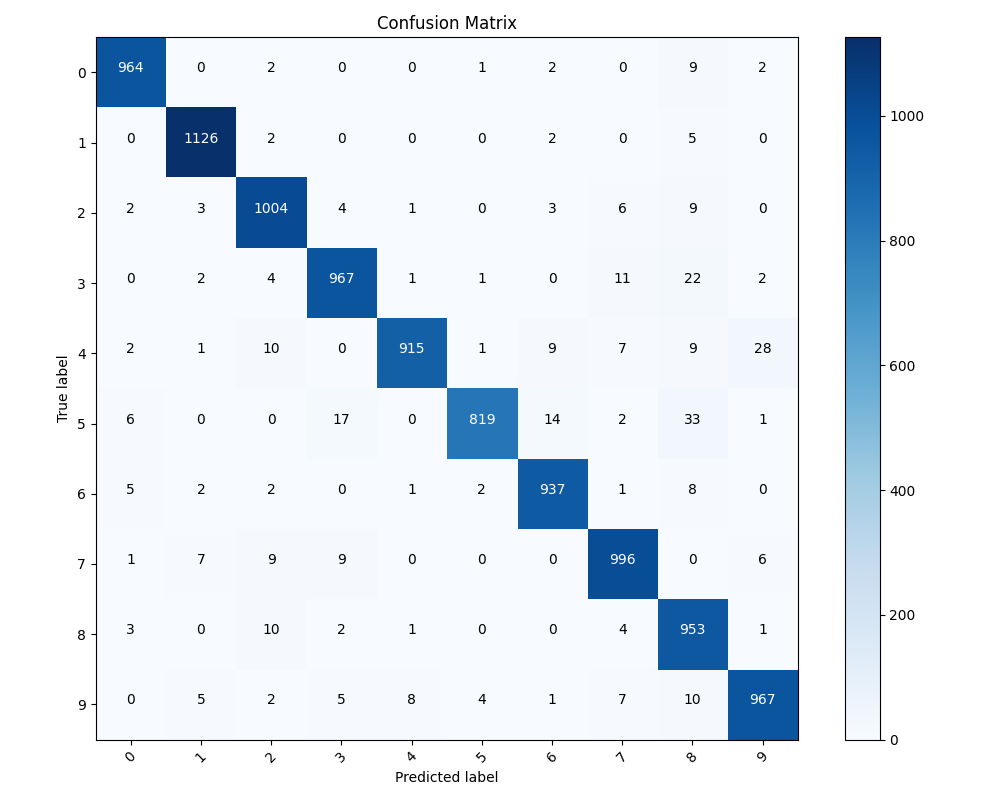
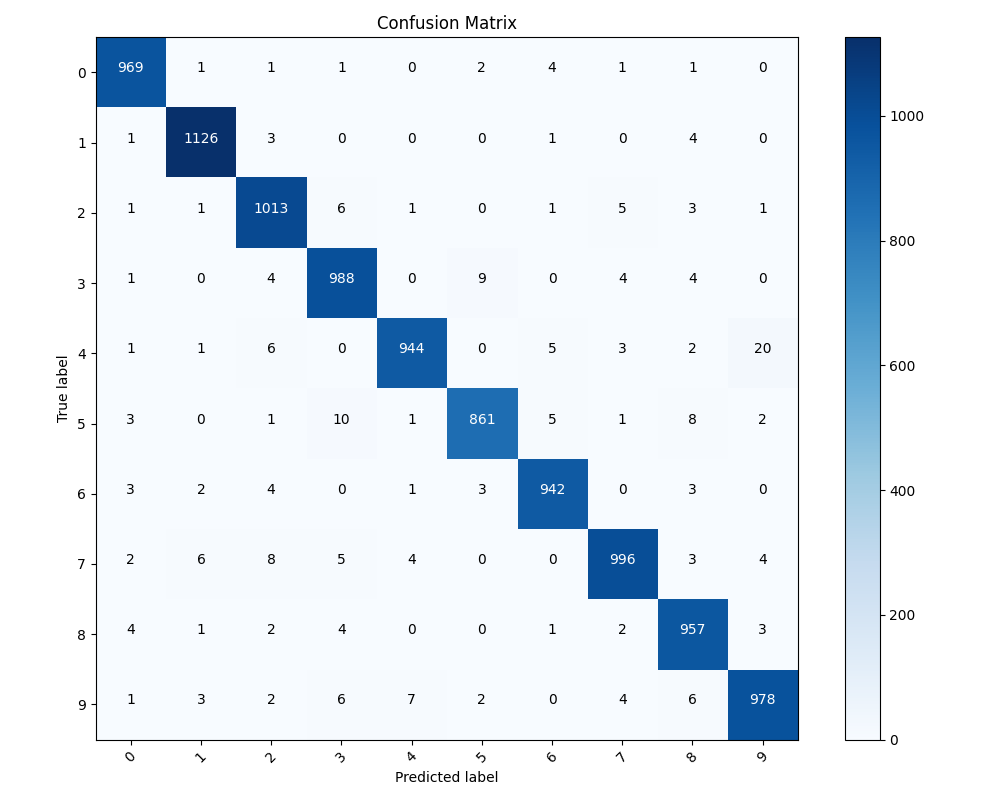
final solution organized

diff --git a/src/task_1/imbalance.py b/src/task_1/imbalance.py
@@ -1,0 +1,127 @@
+"""
+    This file relates to sections 13-14 for imbalance data
+"""
+
+from collections import Counter
+import numpy as np
+import tensorflow as tf
+from random import sample
+from simple_model import simple_model_main
+from datasets_generator import plot_comparison
+
+
+def prepare_over_and_under_datasets(x, y):
+    print("Original class distribution:", Counter(y))
+    # Undersample classes 1 and 7
+    x_under, y_under = undersample_classes(x, y, 1, 7, n_samples=3500)
+    print("Undersample class distribution:", Counter(y_under))
+    # Augment classes 3 and 8
+    x_over_aug, y_over_aug, augmented_data, augmented_targets, un_augmented_data = (
+        augment_classes(x, y, class1=3, class2=8, n_samples=3500)
+    )
+    print("Oversample class distribution:", Counter(y_over_aug))
+    plot_comparison(
+        un_augmented_data,
+        augmented_data,
+        num_images=5,
+        filename="augmented_vs_unaugmented",
+    )
+
+    train_under = (x_under, y_under)
+    train_over = (x_over_aug, y_over_aug)
+    return train_under, train_over
+
+
+# Custom function to add Gaussian noise
+def add_gaussian_noise(img, mean=0.0, std=0.1):
+    noisy_img = img + np.random.normal(mean, std, img.shape)
+    noisy_img = np.clip(noisy_img, 0.0, 1.0)
+    return noisy_img
+
+
+def undersample_classes(x, y, class1, class2, n_samples):
+    # Get indices of the two classes
+    idx_class1 = np.where(y == class1)[0]
+    idx_class2 = np.where(y == class2)[0]
+
+    # Randomly sample n_samples from each class
+    idx_class1 = np.random.choice(idx_class1, n_samples, replace=False)
+    idx_class2 = np.random.choice(idx_class2, n_samples, replace=False)
+
+    # Create new dataset with undersampled classes
+    idx_other_classes = np.where((y != class1) & (y != class2))[0]
+    new_indices = np.concatenate([idx_class1, idx_class2, idx_other_classes])
+
+    return x[new_indices], y[new_indices]
+
+
+# 13. b. Increase the number of images for two classes by performing image manipulations
+def augment_classes(x, y, class1, class2, n_samples=500):
+    # Get indices of the two classes
+    idx_class1 = np.where(y == class1)[0]
+    idx_class2 = np.where(y == class2)[0]
+
+    # Randomly sample n_samples from each class
+    idx_class1 = np.random.choice(idx_class1, n_samples, replace=False)
+    idx_class2 = np.random.choice(idx_class2, n_samples, replace=False)
+
+    augmented_data = []
+    augmented_targets = []
+    un_augmented_data = []
+
+    # Define augmentation transformations
+    datagen1 = tf.keras.preprocessing.image.ImageDataGenerator(
+        rotation_range=90, horizontal_flip=True
+    )
+    datagen2 = tf.keras.preprocessing.image.ImageDataGenerator(
+        rotation_range=90, vertical_flip=True
+    )
+    datagen3 = tf.keras.preprocessing.image.ImageDataGenerator(
+        rotation_range=90, horizontal_flip=True, vertical_flip=True
+    )
+    datagen4 = "datagen4"
+
+    augmentation_list = (datagen1, datagen2, datagen3, datagen4)
+
+    # Apply augmentations to each image
+    for idx in idx_class1:
+        un_augmented_data.append(x[idx])
+        img = x[idx] / 255.0  # Normalize image
+        img = img.reshape((1,) + img.shape + (1,))
+        for dgen in sample(augmentation_list, 1):
+            if dgen == datagen4:
+                augmented_img = add_gaussian_noise(img)
+                augmented_img = augmented_img.reshape(28, 28)
+            else:
+                for batch in dgen.flow(img, batch_size=1):
+                    augmented_img = batch[0].reshape(28, 28)
+                    break
+            augmented_data.append(augmented_img)
+            augmented_targets.append(class1)
+
+    for idx in idx_class2:
+        un_augmented_data.append(x[idx])
+        img = x[idx] / 255.0  # Normalize image
+        img = img.reshape((1,) + img.shape + (1,))
+        for dgen in sample(augmentation_list, 1):
+            if dgen == datagen4:
+                augmented_img = add_gaussian_noise(img)
+                augmented_img = augmented_img.reshape(28, 28)
+            else:
+                for batch in dgen.flow(img, batch_size=1):
+                    augmented_img = batch[0].reshape(28, 28)
+                    break
+            augmented_data.append(augmented_img)
+            augmented_targets.append(class2)
+
+    # Convert augmented data to numpy arrays
+    augmented_data = np.array(augmented_data) * 255.0  # Rescale back to original range
+    un_augmented_data = (
+        np.array(un_augmented_data) * 255.0
+    )  # Rescale back to original range
+
+    # Create new dataset with augmented data
+    new_data = np.concatenate([x, augmented_data])
+    new_targets = np.concatenate([y, augmented_targets])
+
+    return new_data, new_targets, augmented_data, augmented_targets, un_augmented_data

diff --git a/src/task_1/simple_model.py b/src/task_1/simple_model.py
@@ -19,6 +19,10 @@ def preprocess(train, test):
     x_train, y_train = train
     x_test, y_test = test
 
+    # normalize type and range for train and test
+    x_train = x_train.astype("float32") / 255.0
+    x_test = x_test.astype("float32") / 255.0
+
     # Flatten the images for the neural network input
     x_train = x_train.reshape(-1, 28 * 28)
     x_test = x_test.reshape(-1, 28 * 28)
@@ -30,8 +34,9 @@ def build_model(input_shape):
     # Build the model
     model = tf.keras.Sequential(
         [
-            tf.keras.layers.Dense(128, activation="relu", input_shape=input_shape),
-            tf.keras.layers.Dense(64, activation="relu"),
+            tf.keras.layers.Input(shape=input_shape),
+            tf.keras.layers.Dense(128, activation="relu"),
+            tf.keras.layers.BatchNormalization(),
             tf.keras.layers.Dense(10, activation="softmax"),
         ]
     )
@@ -46,7 +51,7 @@ def build_model(input_shape):
 
 def train_and_evaluate_model(model, x_train, y_train, x_test, y_test, file_prefix):
     # Train the model
-    history = model.fit(x_train, y_train, epochs=10, validation_split=0.2)
+    history = model.fit(x_train, y_train, epochs=12, validation_split=0.2)
 
     # plot trainig loss - section 7 in the task
     plot_loss(history, file_prefix + "_loss")
@@ -94,7 +99,12 @@ def evaluate_results(report, conf_matrix, file_prefix):
 
 def simple_model_main(train, test, file_prefix="original", input_shape=(28 * 28,)):
     # Preprocess the data
-    if file_prefix in ["original", "filtered_avg"]:
+    if file_prefix in [
+        "original",
+        "filter_avg",
+        "filter_undersample",
+        "filter_oversample",
+    ]:
         x_train, y_train, x_test, y_test = preprocess(train, test)
 
     else:

diff --git a/src/task_1/main.py b/src/task_1/main.py
@@ -1,14 +1,13 @@
 import tensorflow as tf
-import numpy as np
 from mnist_stats import print_mnist_stats
 from simple_model import simple_model_main
 from datasets_generator import (
     apply_pca_reduction,
     create_dataset_with_filter,
     create_non_overlapping_filter_dataset,
-    pixel_surrounding_filter,
 )
 from plot_utils import plot_comparison
+from imbalance import prepare_over_and_under_datasets
 
 # 1. Choose a Python environment and install it on your computer (PyCharm or Google Colab).
 print(
@@ -42,7 +41,7 @@ train_filtered, test_filtered = create_dataset_with_filter(train=train, test=tes
 plot_comparison(original=train[0], filtered=train_filtered[0], num_images=5)
 
 # re run 5-7 steps for the data after the filter
-simple_model_main(train=train_filtered, test=test_filtered, file_prefix="filtered_avg")
+simple_model_main(train=train_filtered, test=test_filtered, file_prefix="filter_avg")
 
 # section 10 a
 train_pca, test_pca = apply_pca_reduction(train, test)
@@ -62,3 +61,10 @@ simple_model_main(
     file_prefix="non_overlapping",
     input_shape=(10 * 10,),
 )
+
+# Section 13-14 - please see imbalance.py
+train_under, train_over_aug = prepare_over_and_under_datasets(x=train[0], y=train[1])
+# Section 14 data from 13 a - undersampling of two classes  - (Sections 11 -> 5,6,7) please see simple_model.py
+simple_model_main(train=train_under, test=test, file_prefix="filter_undersample")
+# Section 14 data from 13 b - Oversampling of two classes by image augmentation  - (Sections 11 -> 5,6,7) please see simple_model.py
+simple_model_main(train=train_over_aug, test=test, file_prefix="filter_oversample")

diff --git a/src/task_1/datasets_generator.py b/src/task_1/datasets_generator.py
@@ -53,7 +53,10 @@ def apply_pca_reduction(train, test):
     x_train_pca = pca.fit_transform(x_train_flattened)
     x_test_pca = pca.transform(x_test_flattened)
 
-    print(x_test_pca.shape)
+    print(f"shape of data after pca is {x_test_pca.shape}")
+    x_train_pca = x_train_pca.astype("float32") / 255.0
+    x_test_pca = x_test_pca.astype("float32") / 255.0
+
     return (x_train_pca, train[1]), (x_test_pca, test[1])
 
 
@@ -75,6 +78,10 @@ def create_non_overlapping_filter_dataset(train, test):
     # run 3x3 convoultion on non-overlapping frames
     x_train_filtered = np.array([rolling_window(image, (3, 3)) for image in train[0]])
     x_test_filtered = np.array([rolling_window(image, (3, 3)) for image in test[0]])
+
+    # ensure type and normalizition
+    x_train_filtered = x_train_filtered.astype("float32") / 255.0
+    x_test_filtered = x_test_filtered.astype("float32") / 255.0
 
     # reshape for training and testing later
     return (x_train_filtered.reshape(-1, 10 * 10), train[1]), (

diff --git a/src/task_1/plot_utils.py b/src/task_1/plot_utils.py
@@ -31,7 +31,9 @@ def save_plot(fig, filename, folder="plots"):
 
 
 # Plot original and filtered images for comparison
-def plot_comparison(original, filtered, num_images=5):
+def plot_comparison(
+    original, filtered, num_images=5, filename="pixel_surrounding_filter"
+):
     fig = plt.figure(figsize=(10, 4))
     for i in range(num_images):
         # Original images
@@ -47,7 +49,7 @@ def plot_comparison(original, filtered, num_images=5):
         plt.axis("off")
 
     plt.show()
-    save_plot(fig, "pixel_surrounding_filter")
+    save_plot(fig, f"comparison_{filename}")
     plt.close()
 
 
@@ -103,4 +105,11 @@ def plot_confusion_matrix(
     plt.tight_layout()
     plt.show()
     save_plot(fig, prefix + "_confusion_matrix_simple_model")
+    plt.close()
+
+
+# Helper function to visualize a sample image
+def show_image(img):
+    plt.imshow(img, cmap="gray")
+    plt.show()
     plt.close()
